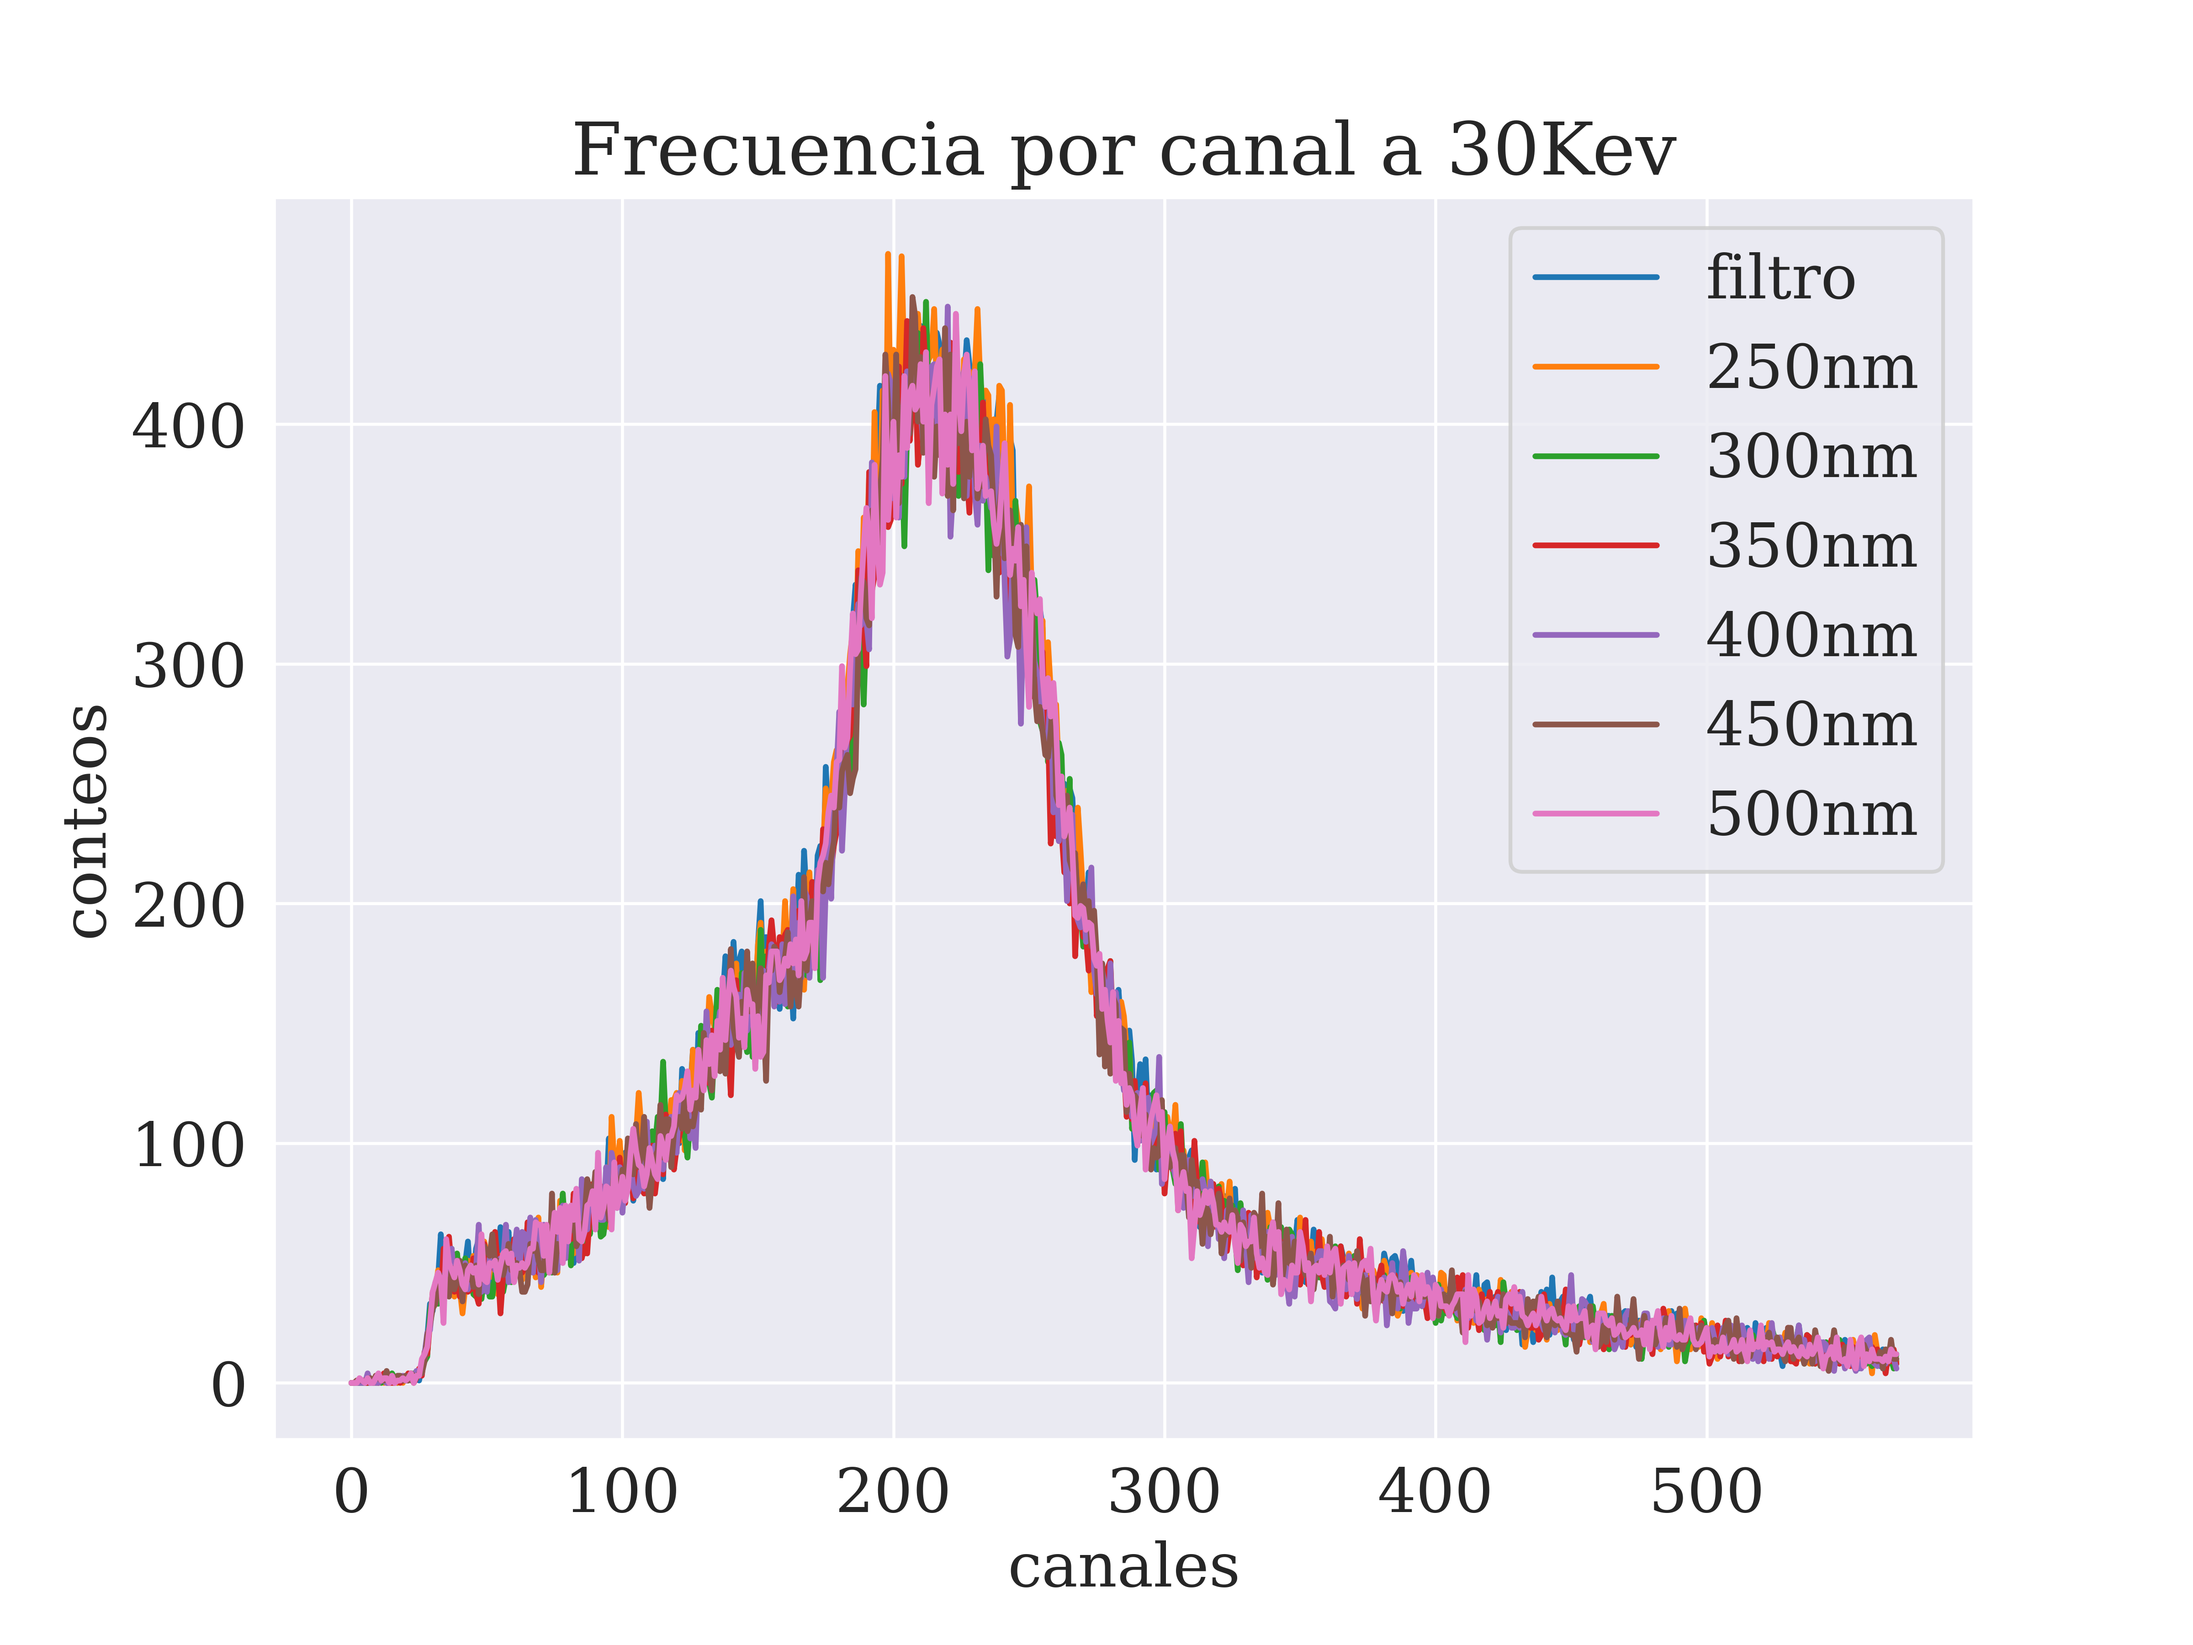
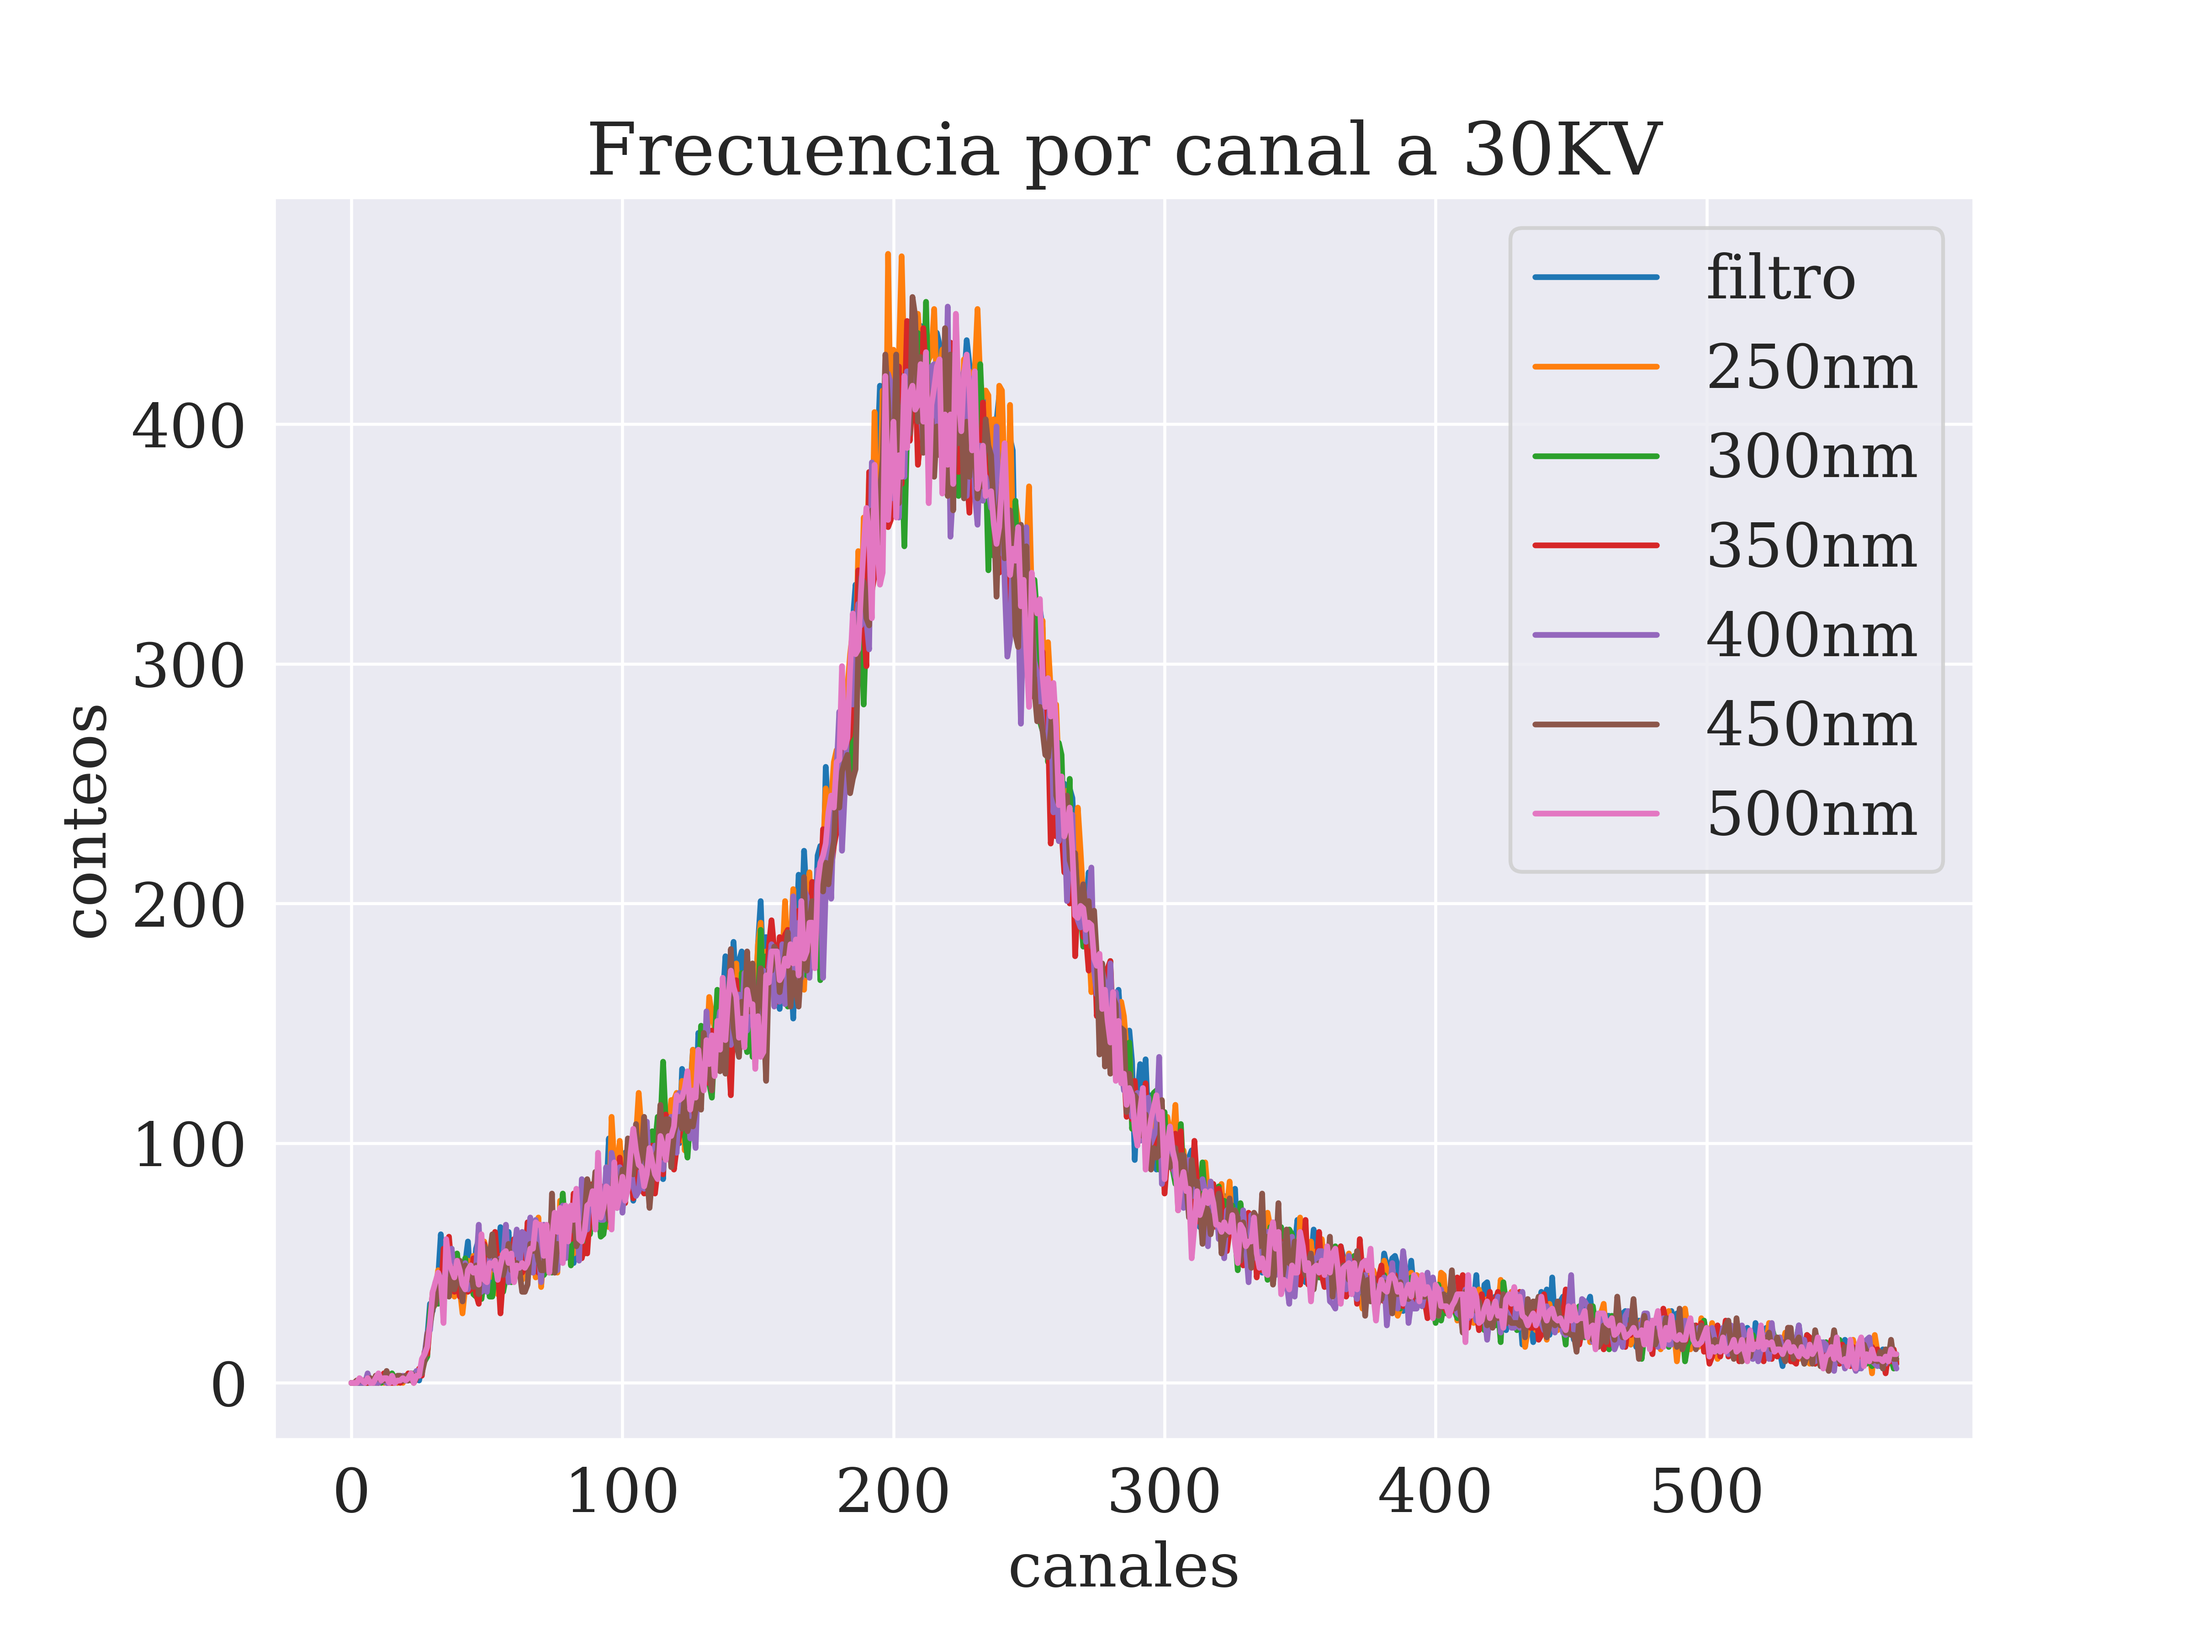
Datos 30KV

Changed region(s): [[0.25, 0.0622, 0.75, 0.1244]]

diff --git a/Codigos/Analisis de datos/Analisis_proyecto_experimental.py b/Codigos/Analisis de datos/Analisis_proyecto_experimental.py
@@ -23,9 +23,9 @@ bbox = dict(boxstyle ="round",facecolor='white')
 
 __Fpath__="../../"
 
-folder_path =  __Fpath__ + "Data\Proyecto experimental\Datos_Avila\Datos MoS2\Interes 2\\"
+folder_path =  __Fpath__ + "Data\Proyecto experimental\Datos_Avila\Datos Grafeno\Interes3\\"
 
-images_folder_path = __Fpath__ + "Images\Proyecto Experimental\Datos_MoS2\\"
+images_folder_path = __Fpath__ + "Images\Proyecto Experimental\Datos_grafeno\\"
 
 
 #%%
@@ -87,7 +87,7 @@ Selecting the data
 
 print(columnames)
 
-y_keys = [columnames [-2]] +  [columnames [-1]] + columnames[:-2]
+y_keys = [columnames [-1]] + columnames[:-1]
 
 print(y_keys)
 
@@ -107,8 +107,8 @@ fig, ax = plt.subplots(figsize=(8, 6))
 x_key = "canales"
 x_label = "canales"
 y_label = "conteos"
-plot_labels = ["filtro",'950nm', '1350nm', '1700nm', '2000nm', '2250nm']
-title = "Frecuencia por canal a 30Kev"
+plot_labels = ["filtro",'250nm', '450nm', '700nm', '250nm', '1000nm']
+title = "Frecuencia por canal a 30KV"
 
 # Call the function to plot data on multiple axes
 plot_dataframe(df, x_key, y_keys, x_label, y_label, plot_labels, ax, title)
@@ -116,7 +116,7 @@ plot_dataframe(df, x_key, y_keys, x_label, y_label, plot_labels, ax, title)
 """
 Saving image
 """ 
-name = "placas_sumadas_a.png"
+name = "placas_sumadas.png"
 plt.savefig(images_folder_path +  name,dpi=600)
 
 
